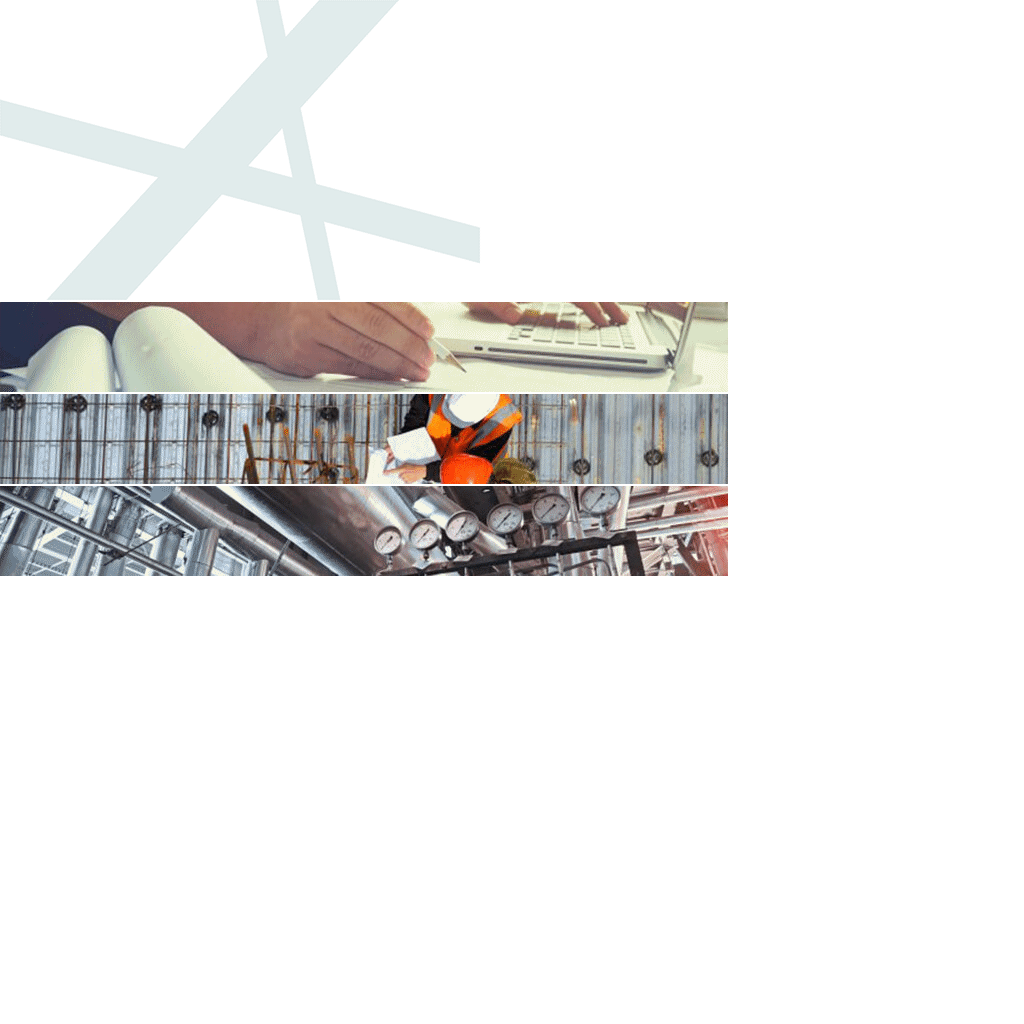
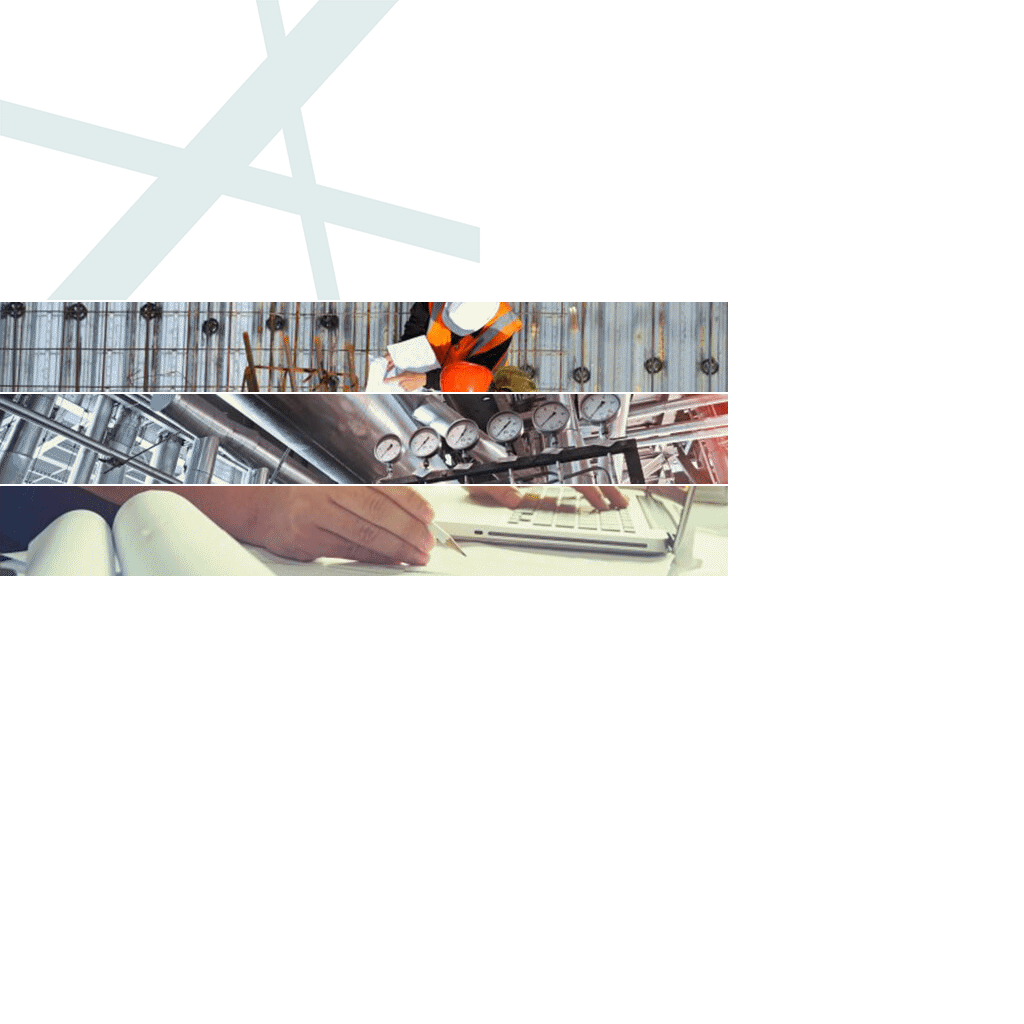
Add files via upload

Changed region(s): [[0.0, 0.2812, 0.7188, 0.5625]]

diff --git a/projector_320x100.js b/projector_320x100.js
@@ -3,7 +3,7 @@
 var p; // shortcut to reference prototypes
 var lib={};var ss={};var img={};
 lib.ssMetadata = [
-		{name:"projector_320x100_atlas_", frames: [[0,302,728,90],[0,486,728,90],[0,394,728,90],[0,0,480,300]]}
+		{name:"projector_320x100_atlas_", frames: [[0,486,728,90],[0,394,728,90],[0,302,728,90],[0,0,480,300]]}
 ];
 
 
